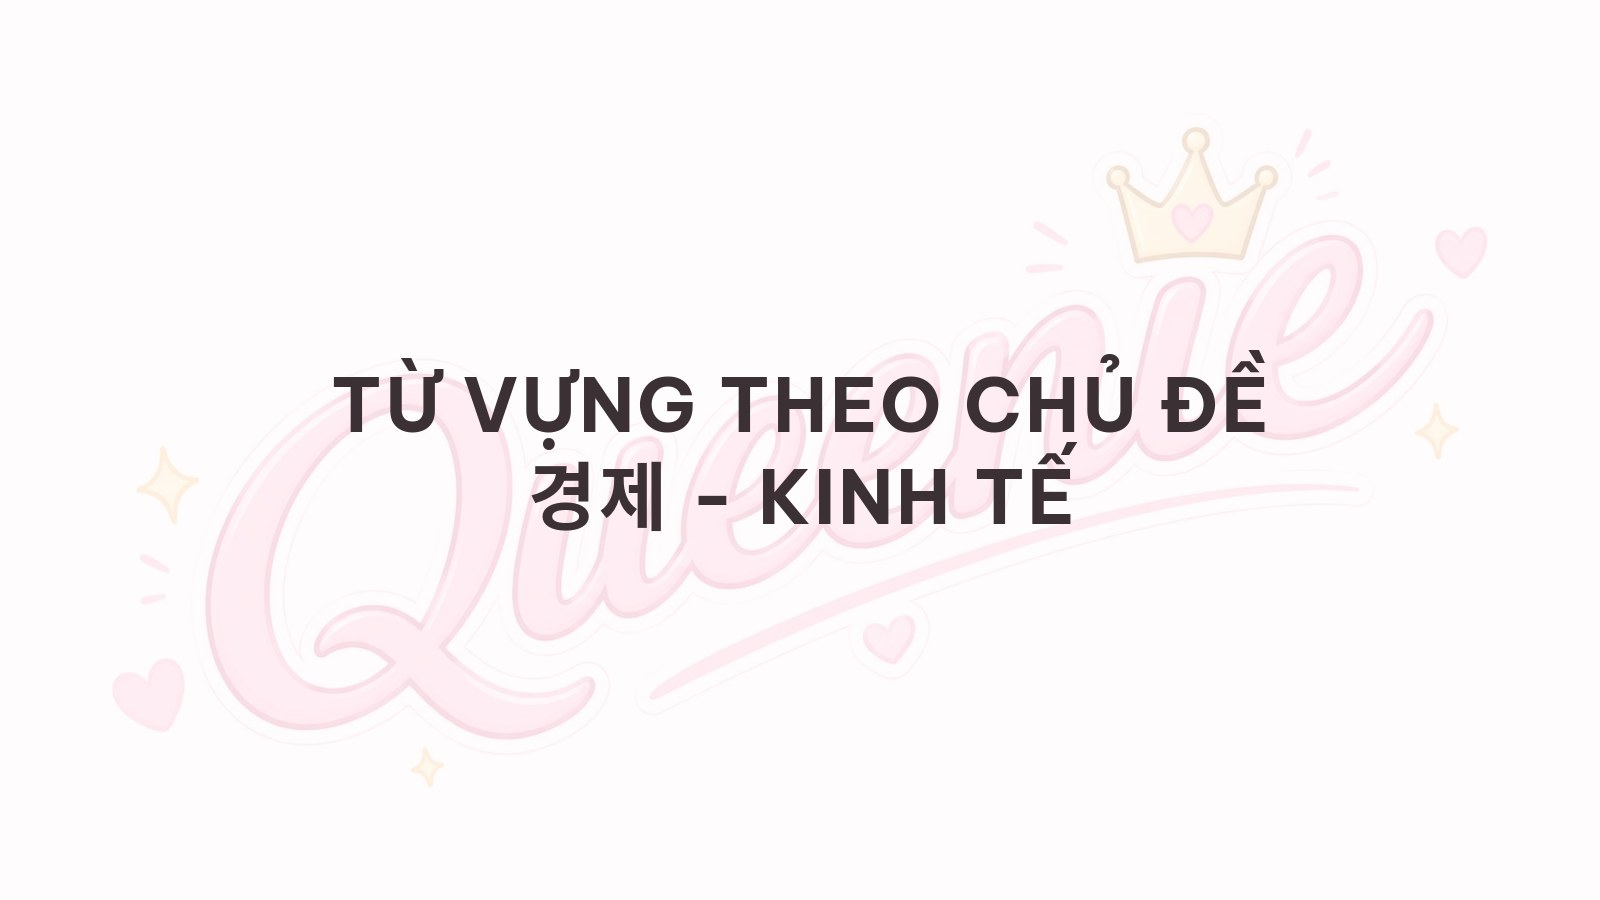
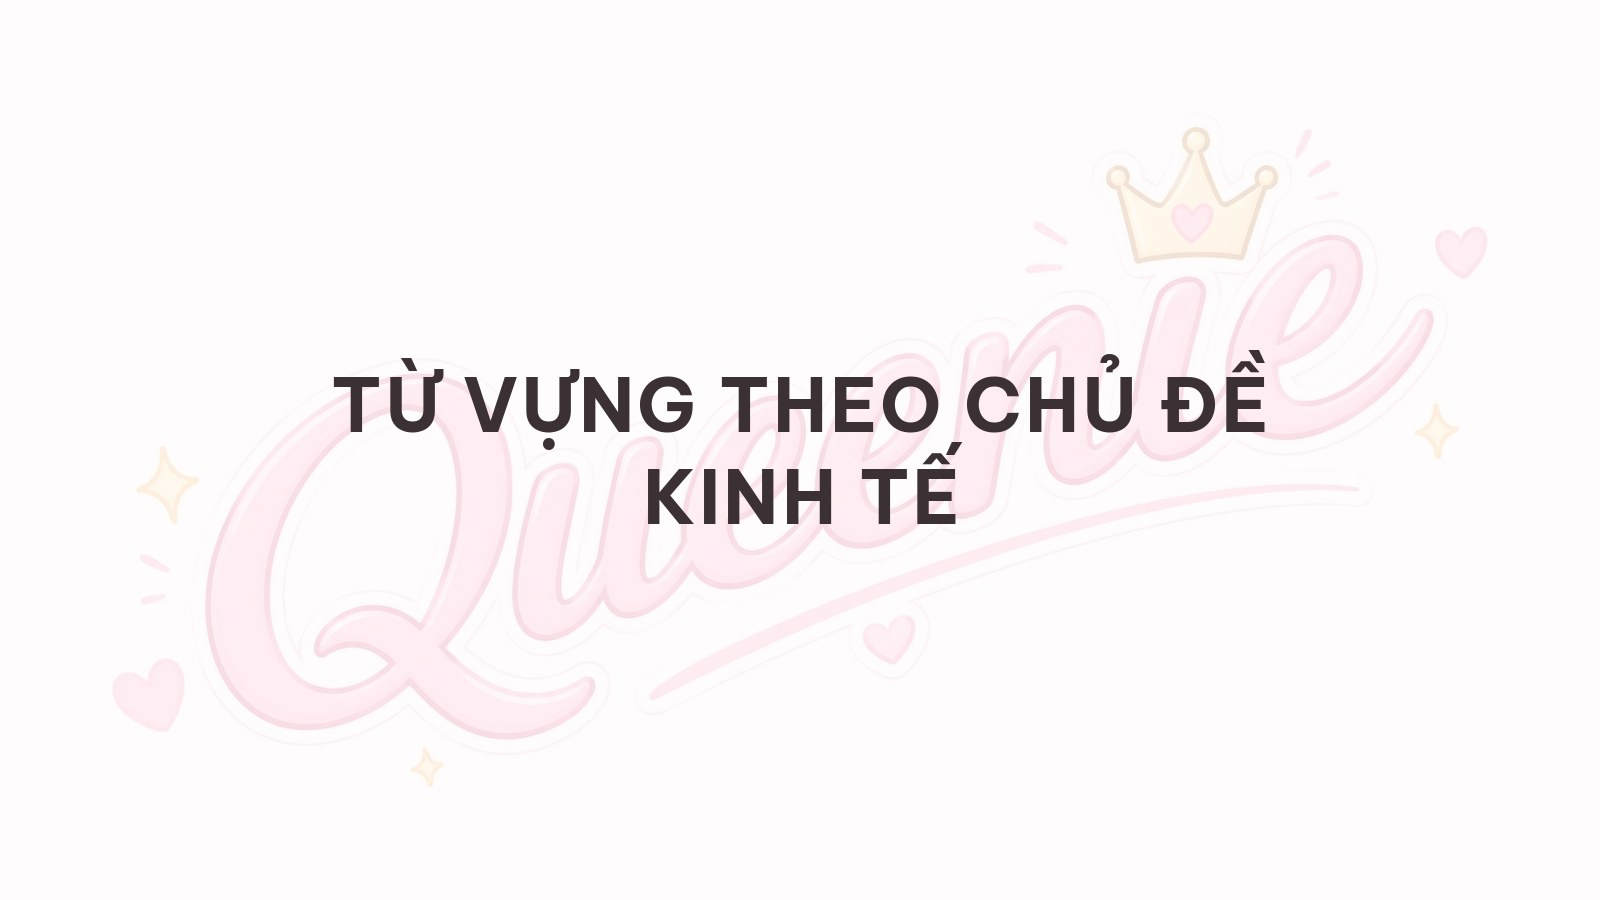
Đăng bài từ tài liệu (issue #1)
content/blog/2026-09-21-tu-vung-topik-theo-chu-de-kinh-te.md

Changed region(s): [[0.3125, 0.4978, 0.6875, 0.5911]]

diff --git a/content/blog/2026-09-21-tu-vung-topik-theo-chu-de-kinh-te.md b/content/blog/2026-09-21-tu-vung-topik-theo-chu-de-kinh-te.md
@@ -1,10 +1,10 @@
 ---
-title: Từ vựng TOPIK theo chủ đề <br> - Kinh tế
+title: Từ vựng TOPIK theo chủ đề <br>Kinh tế
 date: 2026-09-21
 tags: Từ vựng
 image: /assets/banner/tu-vung-topik-theo-chu-de-kinh-te.jpg
-imageAlt: Banner bài viết — Từ vựng TOPIK theo chủ đề - Kinh tế
-bannerTitle: Từ vựng theo chủ đề<br>경제 - Kinh tế
+imageAlt: Banner bài viết — Từ vựng TOPIK theo chủ đề Kinh tế
+bannerTitle: Từ vựng theo chủ đề<br>Kinh tế
 ---
 
 **==xanh: 경제 - KINH TẾ==**
